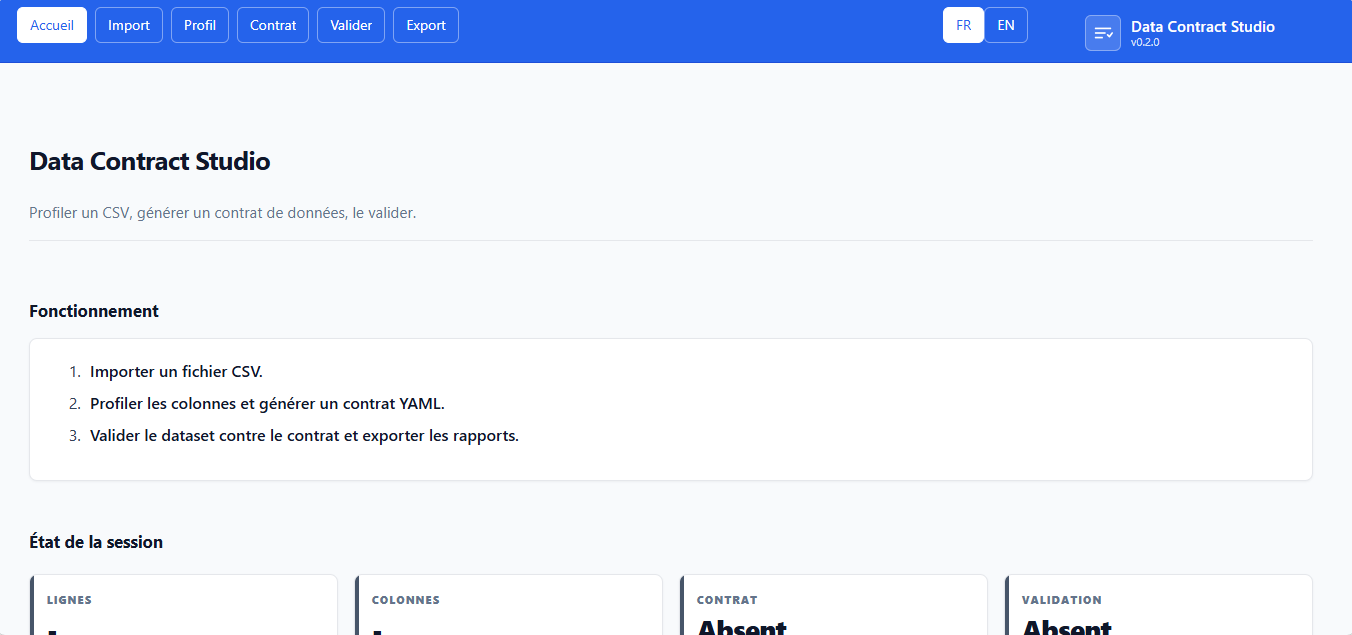
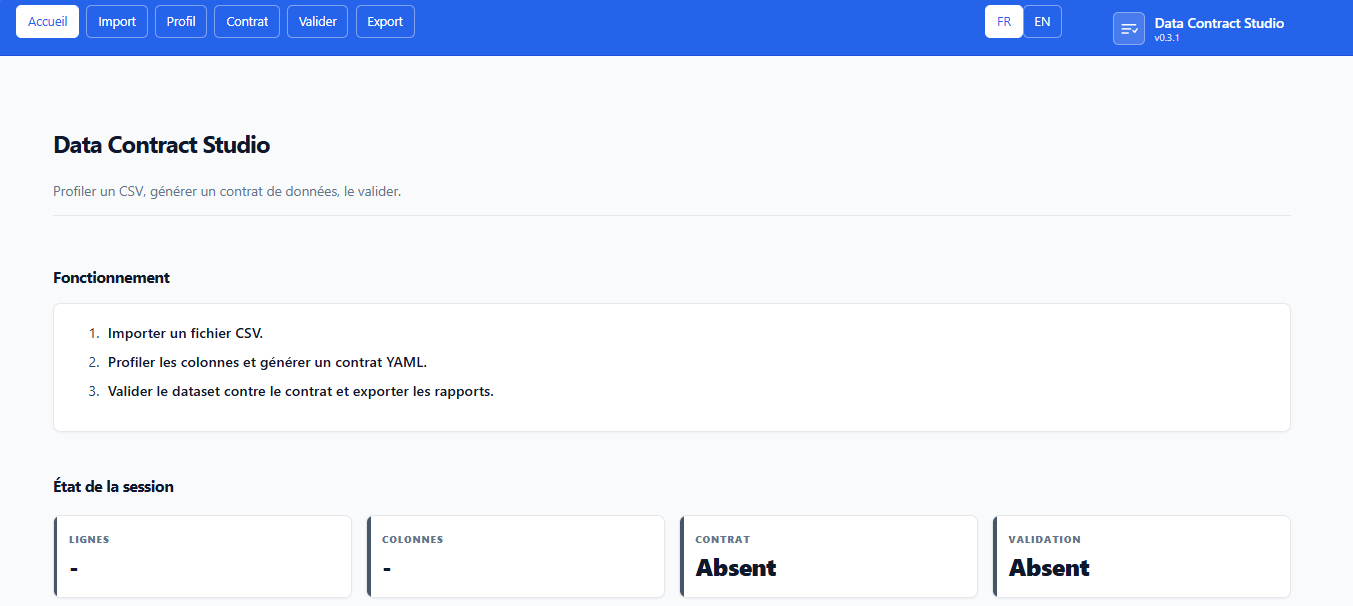
feat: add info and error box components for enhanced UI notifications

diff --git a/assets/styles.css b/assets/styles.css
@@ -140,6 +140,10 @@ code,pre,kbd,samp,[data-testid="stCode"],[data-testid="stJson"],[data-testid="st
 .warnbox svg{width:16px;height:16px;flex:0 0 auto;margin-top:1px;color:var(--medium)}
 .okbox{display:flex;gap:.5rem;align-items:center;background:var(--info-soft);border:1px solid #bbf7d0;border-left:4px solid var(--info);border-radius:var(--radius-md);padding:.7rem .9rem;font-size:.9rem;color:#166534}
 .okbox svg{width:16px;height:16px;flex:0 0 auto;color:var(--info)}
+.infobox{display:flex;gap:.5rem;align-items:center;background:var(--primary-soft);border:1px solid #bfdbfe;border-left:4px solid var(--primary);border-radius:var(--radius-md);padding:.7rem .9rem;font-size:.9rem;color:#1e40af}
+.infobox svg{width:16px;height:16px;flex:0 0 auto;color:var(--primary)}
+.errbox{display:flex;gap:.5rem;align-items:flex-start;background:var(--critical-soft);border:1px solid #fecaca;border-left:4px solid var(--critical);border-radius:var(--radius-md);padding:.7rem .9rem;font-size:.9rem;color:#991b1b}
+.errbox svg{width:16px;height:16px;flex:0 0 auto;margin-top:1px;color:var(--critical)}
 
 /* ===== WIDGETS STREAMLIST ===== */
 .stButton > button,.stDownloadButton > button{border-radius:12px;border:1px solid var(--border);background:var(--surface);color:var(--text-2);font-weight:700;padding:.55rem 1rem;box-shadow:var(--shadow-sm)}
@@ -149,6 +153,10 @@ code,pre,kbd,samp,[data-testid="stCode"],[data-testid="stJson"],[data-testid="st
 .stTextInput input,.stNumberInput input,.stDateInput input,.stTimeInput input,.stSelectbox div[data-baseweb="select"] > div,.stMultiSelect div[data-baseweb="select"] > div,textarea{border-radius:12px!important;border-color:var(--border)!important;background:var(--surface)!important;color:var(--text)!important;font-family:var(--font-sans)!important}
 .stTextInput input:focus,.stNumberInput input:focus,.stSelectbox div[data-baseweb="select"] > div:focus-within,.stMultiSelect div[data-baseweb="select"] > div:focus-within,textarea:focus{border-color:var(--primary)!important;box-shadow:var(--focus-ring)!important}
 [data-testid="stAlert"]{border-radius:14px!important;border:1px solid var(--border)!important;border-left-width:4px!important;padding:.75rem .9rem!important;background:var(--surface)!important;box-shadow:var(--shadow-sm);font-family:var(--font-sans)!important}
+[data-testid="stAlert"]:has([data-testid="stAlertContentWarning"]){background:var(--medium-soft)!important;border-color:#fde68a!important;border-left-color:var(--medium)!important;color:#92400e!important}
+[data-testid="stAlert"]:has([data-testid="stAlertContentSuccess"]){background:var(--info-soft)!important;border-color:#bbf7d0!important;border-left-color:var(--info)!important;color:#166534!important}
+[data-testid="stAlert"]:has([data-testid="stAlertContentInfo"]){background:var(--primary-soft)!important;border-color:#bfdbfe!important;border-left-color:var(--primary)!important;color:#1e40af!important}
+[data-testid="stAlert"]:has([data-testid="stAlertContentError"]){background:var(--critical-soft)!important;border-color:#fecaca!important;border-left-color:var(--critical)!important;color:#991b1b!important}
 [data-testid="stDataFrame"],[data-testid="stTable"]{border:1px solid var(--border);border-radius:14px;overflow:hidden;background:var(--surface);box-shadow:var(--shadow-sm)}
 [data-testid="stTable"] th{background:var(--surface-2)!important;color:var(--muted)!important;font-size:.74rem;text-transform:uppercase;letter-spacing:.06em}
 [data-testid="stTable"] td,[data-testid="stTable"] th{border-color:var(--border)!important}

diff --git a/ui/components.py b/ui/components.py
@@ -63,6 +63,20 @@ def ok_box(message: str) -> None:
     )
 
 
+def info_box(message: str) -> None:
+    st.markdown(
+        f'<div class="infobox"><svg viewBox="0 0 24 24" fill="none" stroke="currentColor" stroke-width="2" stroke-linecap="round" stroke-linejoin="round"><circle cx="12" cy="12" r="10"/><path d="M12 16v-4"/><path d="M12 8h.01"/></svg><span>{esc(message)}</span></div>',
+        unsafe_allow_html=True,
+    )
+
+
+def err_box(message: str) -> None:
+    st.markdown(
+        f'<div class="errbox"><svg viewBox="0 0 24 24" fill="none" stroke="currentColor" stroke-width="2" stroke-linecap="round" stroke-linejoin="round"><circle cx="12" cy="12" r="10"/><path d="m15 9-6 6"/><path d="m9 9 6 6"/></svg><span>{esc(message)}</span></div>',
+        unsafe_allow_html=True,
+    )
+
+
 def md_bold_to_html(text: str) -> str:
     out = esc(text)
     return out.replace("**", "<b>").replace("__", "<b>")
